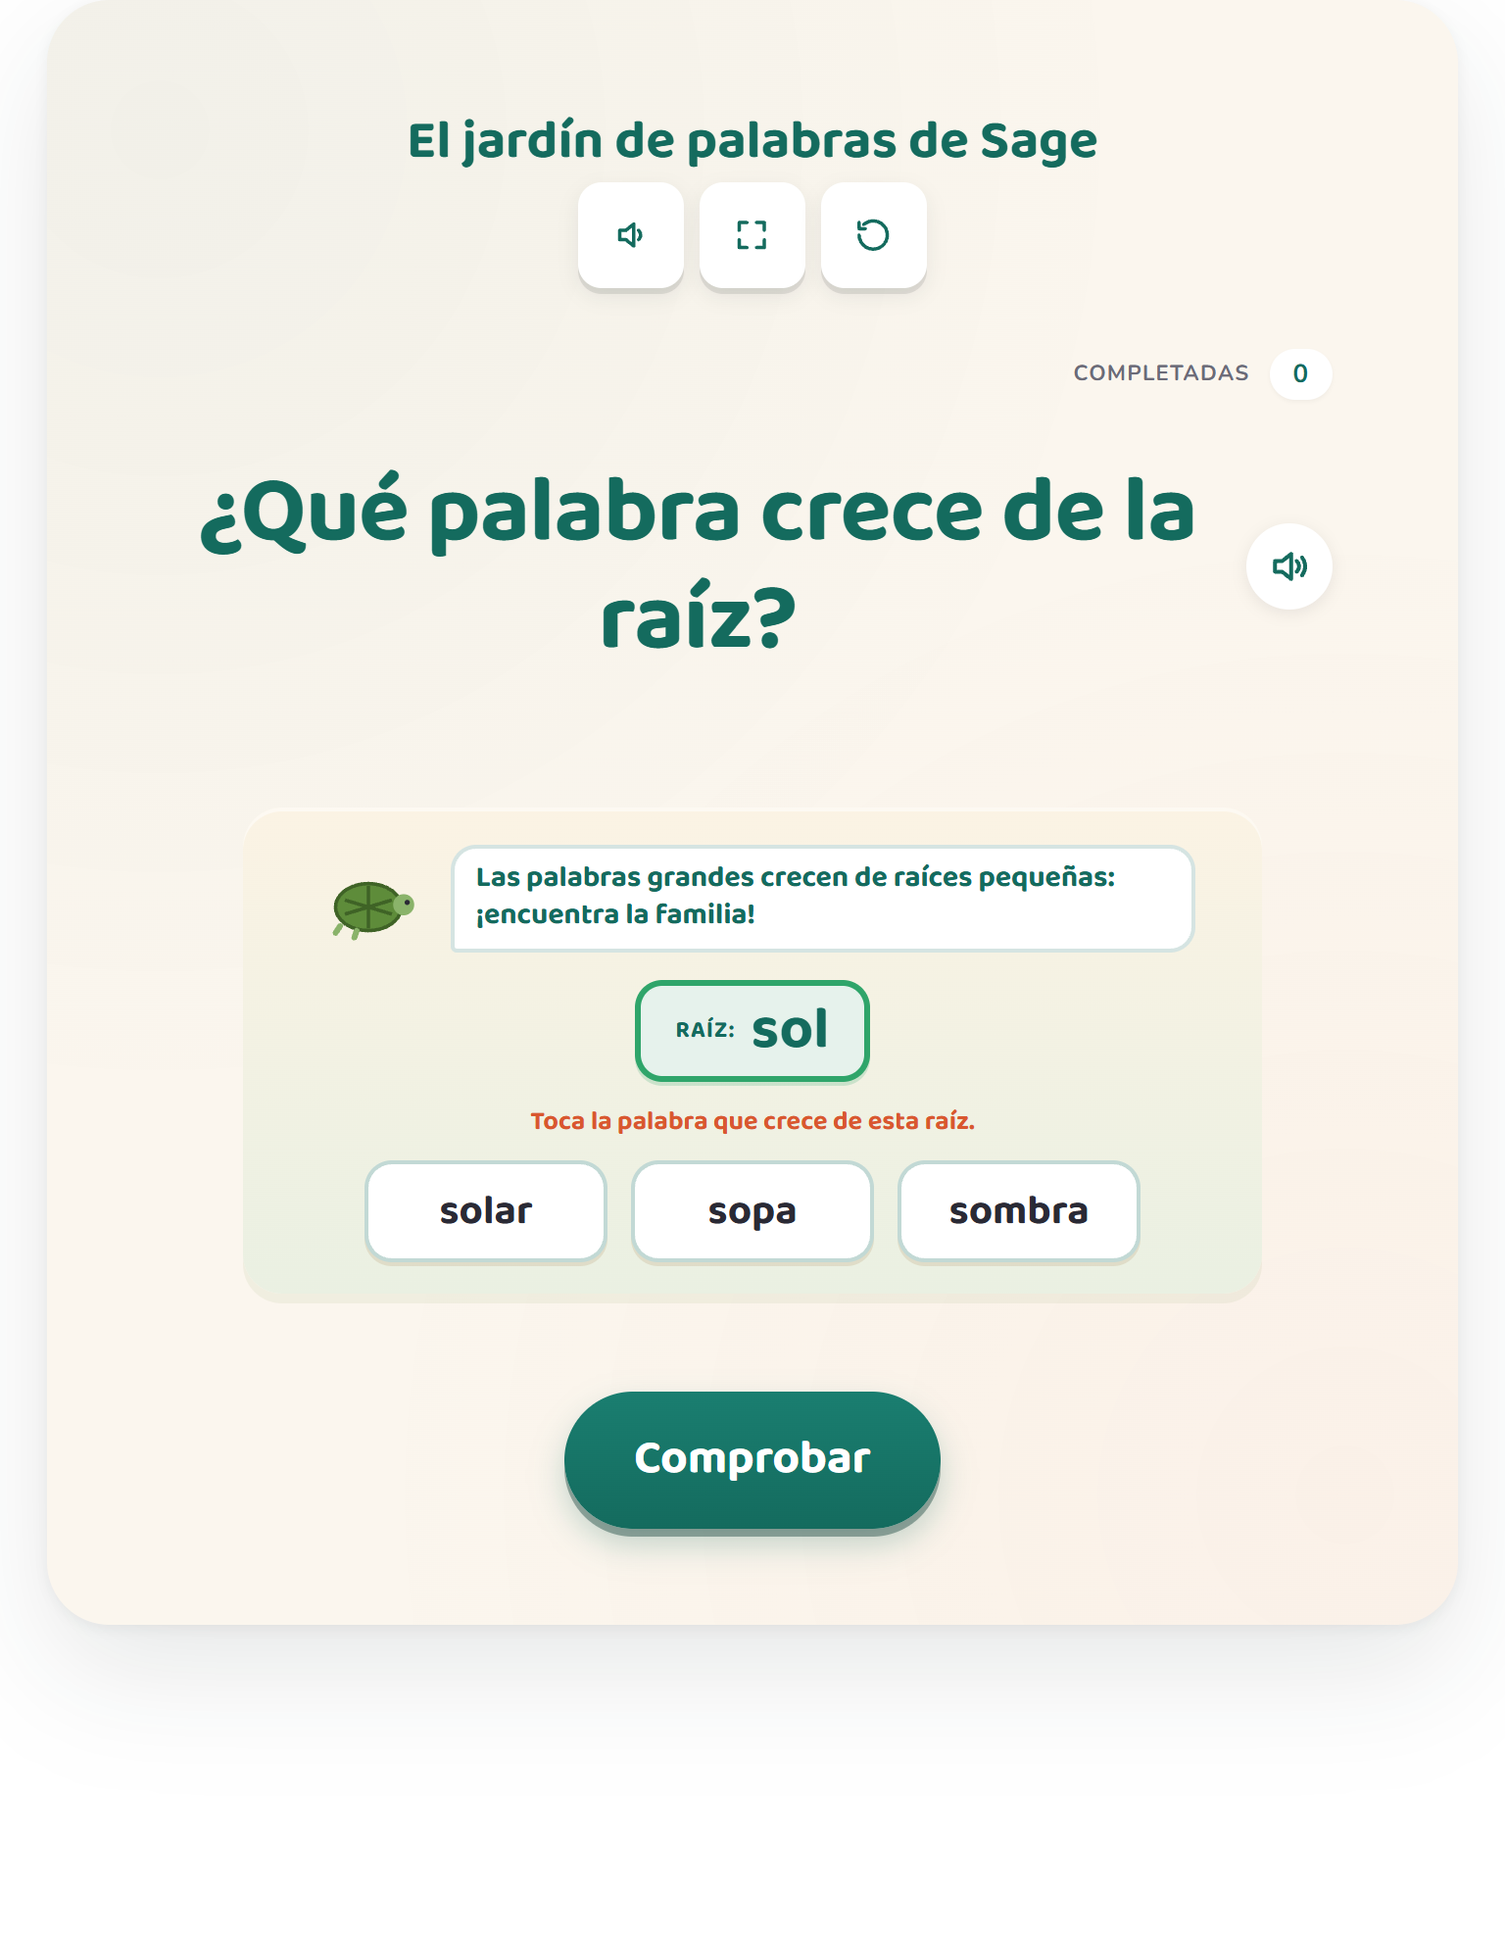
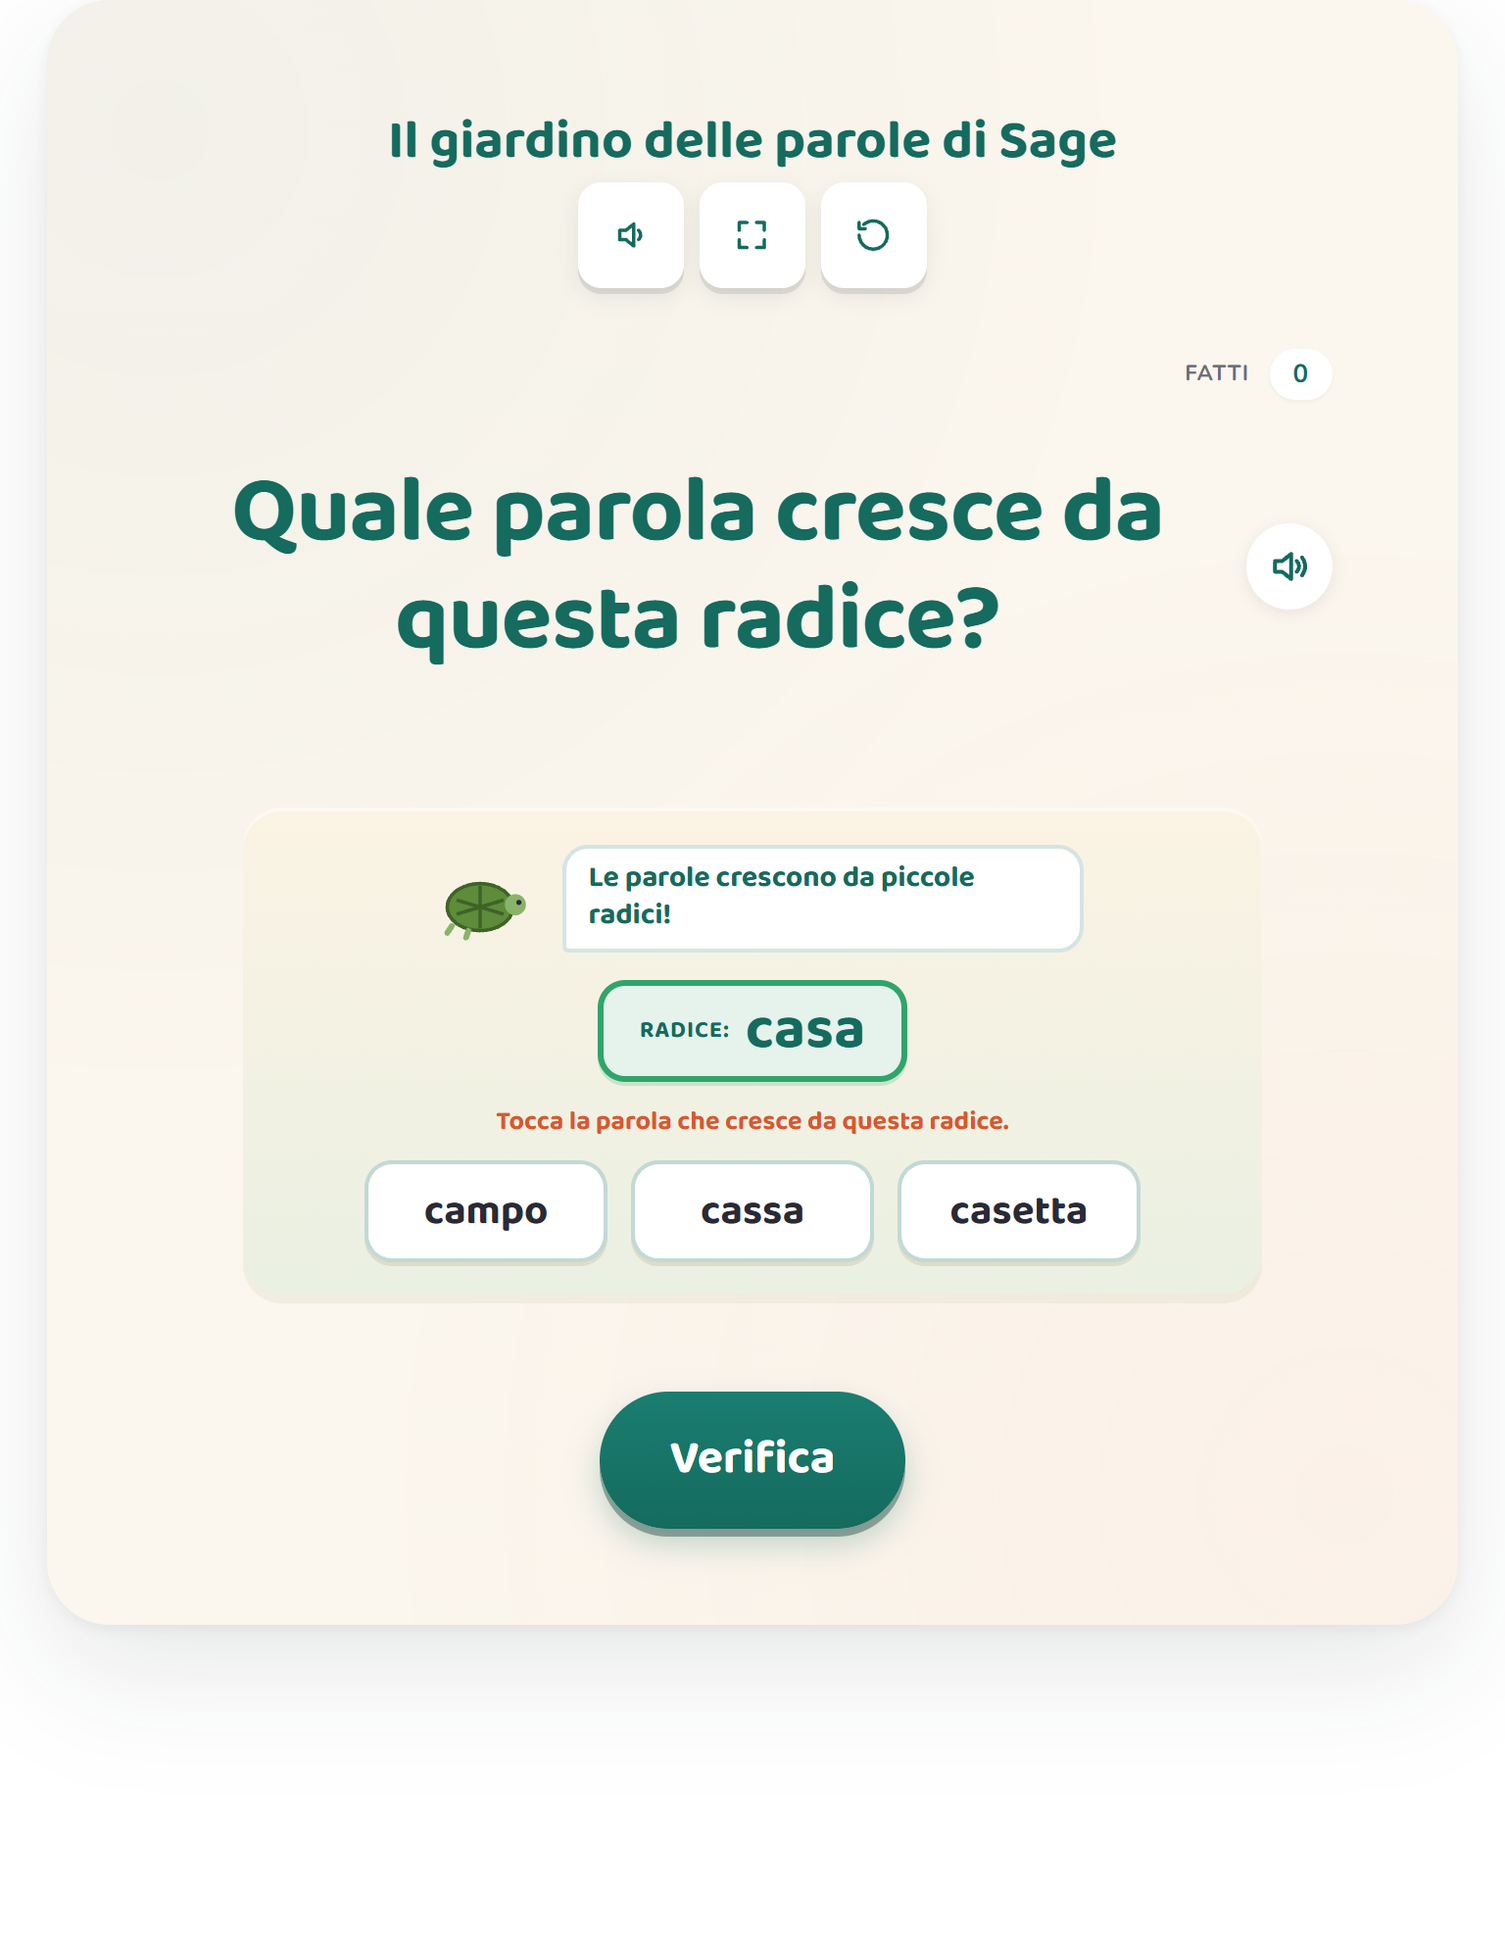
[FEATURE][I18N][IT] sage-root-garden #26 — Il giardino delle parole di Sage + Lessico strand (classe seconda)
Italian (it) second-batch fan-out #26 — sage-root-garden.roots.l-2-4-c, the 6th it
LITERACY activity and the 2nd it VOCABULARY-strand activity (word families/roots =
derivational morphology, same eixo as #22 affix). Pure activity-layer fan-out over
the existing root-word engine (EN + de/es/fr/pt live). Sage the tortoise grows word
families from a root; the child taps the family word that grows from the root among
look-alike foils. Correct = choices[sel].word === correct (runtime).

Rebuilt for the Indicazioni nazionali (lessico, classe seconda). 8 rounds, node-eval
GREEN (each correct family word visibly carries the root stem; 3 distinct choices,
one correct).

⭐ Native it ensemble (K-3 pedagogue + linguist + SEO); the design fork went to the
pedagogue:
- ⭐⭐ ROOT DISPLAY = the FULL BASE NOUN («gatto»/«fiore»/«dente»), NOT the stem
  (pedagogue-decisive over the linguist's stem preference). Scuola primaria teaches
  le famiglie di parole from the parola primitiva — a whole, sayable word; a classe-2
  child recognizes the family, doesn't segment morphemes (that's classe 3-5); a bare
  stem isn't a word and TTS (which speaks round.root) can't read it. Matches the pt
  precedent (dente→dentista) and is technically safe (facts.correctFromRoot is
  EN-gate-only; runtime just checks word === correct).
- FOILS = genuine false friends (linguist-verified etymologically unrelated): the
  gold foils cassa/panno/dentro/sala start with the exact root letters but are a
[…]

diff --git a/mini tools/sage-root-garden-activity.js b/mini tools/sage-root-garden-activity.js
@@ -16,8 +16,8 @@
   var C = { T: '#146B5E', CREAM: '#FBF3E4', CORAL: '#F2784B', CORAL2: '#D9572F', INK: '#2A2A35', GOLD: '#E8A53A', GREEN: '#2FA56A' };
 
   function speak(text) {
-    try { if (global.LCSAudio && global.LCSAudio.speak) { global.LCSAudio.speak({ type: 'word', text: text, lang: (LANG === 'es' ? 'es-MX' : LANG === 'pt' ? 'pt-BR' : LANG), rate: 0.95 }); return; }
-      if (global.speechSynthesis && global.SpeechSynthesisUtterance) { var u = new global.SpeechSynthesisUtterance(text); u.lang = LANG === 'de' ? 'de-DE' : LANG === 'fr' ? 'fr-FR' : LANG === 'es' ? 'es-MX' : LANG === 'pt' ? 'pt-BR' : 'en-US'; u.rate = 0.95; global.speechSynthesis.cancel(); global.speechSynthesis.speak(u); } } catch (e) {}
+    try { if (global.LCSAudio && global.LCSAudio.speak) { global.LCSAudio.speak({ type: 'word', text: text, lang: (LANG === 'es' ? 'es-MX' : LANG === 'pt' ? 'pt-BR' : LANG === 'it' ? 'it-IT' : LANG), rate: 0.95 }); return; }
+      if (global.speechSynthesis && global.SpeechSynthesisUtterance) { var u = new global.SpeechSynthesisUtterance(text); u.lang = LANG === 'de' ? 'de-DE' : LANG === 'fr' ? 'fr-FR' : LANG === 'es' ? 'es-MX' : LANG === 'pt' ? 'pt-BR' : LANG === 'it' ? 'it-IT' : 'en-US'; u.rate = 0.95; global.speechSynthesis.cancel(); global.speechSynthesis.speak(u); } } catch (e) {}
   }
   function shuffle(arr) { var a = arr.slice(), i, j, t; for (i = a.length - 1; i > 0; i--) { j = Math.floor(Math.random() * (i + 1)); t = a[i]; a[i] = a[j]; a[j] = t; } return a; }
 
@@ -35,15 +35,19 @@
   global.SageRootGardenActivity = {
     id: 'sage-root-garden-activity',
 
+    /* it (#26 fan-out — 2nd it VOCABULARY strand «Lessico»; word families/root, classe seconda): ⭐ show the FULL
+       base noun as the «Radice» (gatto/fiore/dente — pedagogue-decisive over the stem; scuola primaria teaches
+       famiglie di parole from the parola primitiva, a real sayable word; matches the pt precedent). Sage = FEMININE
+       (la tartaruga). sageIntro SHORT (2-line bubble clips at 360px). «radice» not «radicale». «...» caporali. */
     strings: {
-      title: { en: "Sage's Root Garden", de: 'Sages Wortgarten', fr: 'Le jardin des mots de Sage', es: 'El jardín de palabras de Sage', pt: 'O Jardim de Palavras da Sage' },
-      prompt: { en: 'Which word grows from the root?', de: 'Welches Wort wächst aus dem Wortstamm?', fr: 'Quel mot pousse à partir du radical ?', es: '¿Qué palabra crece de la raíz?', pt: 'Qual palavra cresce desta raiz?' },
-      sageIntro: { en: 'Big words grow from little root words — find the family!', de: 'Aus kleinen Wortstämmen wachsen große Wörter – finde die Wortfamilie!', fr: 'De petits radicaux poussent de grands mots !', es: 'Las palabras grandes crecen de raíces pequeñas: ¡encuentra la familia!', pt: 'Grandes palavras crescem de raízes pequenas!' },
-      rootLab: { en: 'Root word:', de: 'Wortstamm:', fr: 'Radical :', es: 'Raíz:', pt: 'Raiz:' },
-      theAsk: { en: 'Tap the word that grows from this root.', de: 'Tippe das Wort an, das aus diesem Wortstamm wächst.', fr: 'Touche le mot qui pousse à partir de ce radical.', es: 'Toca la palabra que crece de esta raíz.', pt: 'Toque na palavra que cresce desta raiz.' },
-      hintPick: { en: 'Find the root hiding inside one of the words!', de: 'Finde den Wortstamm, der sich in einem der Wörter versteckt!', fr: 'Cherche le radical caché au début d’un des mots !', es: '¡Busca la raíz escondida dentro de una de las palabras!', pt: 'Ache a raiz escondida dentro de uma das palavras!' },
-      hintWrong: { en: "That one just looks alike — look for the root inside.", de: 'Das sieht nur ähnlich aus – suche den Wortstamm darin.', fr: 'Il se ressemble seulement — cherche bien le radical à l’intérieur.', es: 'Esa solo se parece; busca la raíz adentro.', pt: 'Essa é só parecida — procure a raiz de verdade dentro dela.' },
-      win: { en: 'Yes! That word grew from the root. 🌱', de: 'Ja! Dieses Wort ist aus dem Wortstamm gewachsen. 🌱', fr: 'Bravo ! Ce mot a poussé à partir du radical. 🌱', es: '¡Sí! Esa palabra creció de la raíz. 🌱', pt: 'Isso! Essa palavra cresceu da raiz. 🌱' }
+      title: { en: "Sage's Root Garden", de: 'Sages Wortgarten', fr: 'Le jardin des mots de Sage', es: 'El jardín de palabras de Sage', pt: 'O Jardim de Palavras da Sage', it: 'Il giardino delle parole di Sage' },
+      prompt: { en: 'Which word grows from the root?', de: 'Welches Wort wächst aus dem Wortstamm?', fr: 'Quel mot pousse à partir du radical ?', es: '¿Qué palabra crece de la raíz?', pt: 'Qual palavra cresce desta raiz?', it: 'Quale parola cresce da questa radice?' },
+      sageIntro: { en: 'Big words grow from little root words — find the family!', de: 'Aus kleinen Wortstämmen wachsen große Wörter – finde die Wortfamilie!', fr: 'De petits radicaux poussent de grands mots !', es: 'Las palabras grandes crecen de raíces pequeñas: ¡encuentra la familia!', pt: 'Grandes palavras crescem de raízes pequenas!', it: 'Le parole crescono da piccole radici!' },
+      rootLab: { en: 'Root word:', de: 'Wortstamm:', fr: 'Radical :', es: 'Raíz:', pt: 'Raiz:', it: 'Radice:' },
+      theAsk: { en: 'Tap the word that grows from this root.', de: 'Tippe das Wort an, das aus diesem Wortstamm wächst.', fr: 'Touche le mot qui pousse à partir de ce radical.', es: 'Toca la palabra que crece de esta raíz.', pt: 'Toque na palavra que cresce desta raiz.', it: 'Tocca la parola che cresce da questa radice.' },
+      hintPick: { en: 'Find the root hiding inside one of the words!', de: 'Finde den Wortstamm, der sich in einem der Wörter versteckt!', fr: 'Cherche le radical caché au début d’un des mots !', es: '¡Busca la raíz escondida dentro de una de las palabras!', pt: 'Ache a raiz escondida dentro de uma das palavras!', it: 'Cerca la radice nascosta dentro una delle parole!' },
+      hintWrong: { en: "That one just looks alike — look for the root inside.", de: 'Das sieht nur ähnlich aus – suche den Wortstamm darin.', fr: 'Il se ressemble seulement — cherche bien le radical à l’intérieur.', es: 'Esa solo se parece; busca la raíz adentro.', pt: 'Essa é só parecida — procure a raiz de verdade dentro dela.', it: 'Quella somiglia soltanto — cerca dentro la radice vera!' },
+      win: { en: 'Yes! That word grew from the root. 🌱', de: 'Ja! Dieses Wort ist aus dem Wortstamm gewachsen. 🌱', fr: 'Bravo ! Ce mot a poussé à partir du radical. 🌱', es: '¡Sí! Esa palabra creció de la raíz. 🌱', pt: 'Isso! Essa palavra cresceu da raiz. 🌱', it: 'Sì! Questa parola è cresciuta dalla radice. 🌱' }
     },
     defaults: {},
 
@@ -73,7 +77,7 @@
       var say = api.el('div', 'srg-say'); say.textContent = api.t('sageIntro'); row.appendChild(say);
       root.appendChild(row);
 
-      var rootBox = api.el('button', 'srg-rootbox'); rootBox.type = 'button'; rootBox.setAttribute('aria-label', LANG === 'de' ? ('Wortstamm ' + v.root + ' anhören') : LANG === 'fr' ? ('écouter le radical ' + v.root) : LANG === 'es' ? ('escuchar la raíz ' + v.root) : LANG === 'pt' ? ('ouvir a raiz ' + v.root) : ('hear the root ' + v.root));
+      var rootBox = api.el('button', 'srg-rootbox'); rootBox.type = 'button'; rootBox.setAttribute('aria-label', LANG === 'de' ? ('Wortstamm ' + v.root + ' anhören') : LANG === 'fr' ? ('écouter le radical ' + v.root) : LANG === 'es' ? ('escuchar la raíz ' + v.root) : LANG === 'pt' ? ('ouvir a raiz ' + v.root) : LANG === 'it' ? ('ascolta la radice ' + v.root) : ('hear the root ' + v.root));
       var rl = api.el('span', 'srg-rootlab'); rl.textContent = api.t('rootLab'); rootBox.appendChild(rl);
       var rw = api.el('span', 'srg-rootword'); rw.textContent = v.root; rootBox.appendChild(rw);
       rootBox.addEventListener('click', function () { speak(v.root); });

diff --git a/frontend/app/[locale]/activities/[slug]/page.tsx b/frontend/app/[locale]/activities/[slug]/page.tsx
@@ -170,7 +170,7 @@ const STRAND_OVERRIDE: Record<string, Record<string, string>> = {
   'star-stitcher.connect-sequence.k-cc-a-2': { fr: 'Découvrir les nombres et leurs utilisations' }, // GS-anchored (comparison-creek/necklace precedent): compter à partir d'un nombre donné (surcomptage) — dire la suite orale à partir de n'importe quel nombre, à ≤18 = attendu de GS (maternelle) → native 'K' auto-maps to GS (NO fr grade override; ⚠ diverges from the de Klasse-1 fan); the maternelle number domain, NOT the cycle-2 « Nombres et calcul » auto-map; NO two-digit/tens content so it does NOT escalate to CP (contrast posy/nesting-pots); en/de fall through
   'parking-tower.place-by-relation.k-g-a-1': { fr: 'Se repérer dans l’espace' }, // GS-anchored: les mots de position (au-dessus/en dessous/à côté/entre) = vocabulaire spatial = « se repérer dans l'espace » = attendu de la maternelle (GS) → native 'K' auto-maps to GS (NO fr grade override; ⚠ diverges from the de Klasse-1 fan); the maternelle spatial-orientation domain, NOT the cycle-2 « Espace et géométrie » auto-map (a year off beside the GS chip); the Geometry-strand analog of the counting siblings' number-domain override; en/de fall through
   'bramble.holds-more.k-md-a-2': { fr: 'Explorer des formes, des grandeurs, des suites organisées' }, // GS-anchored: comparer des contenances qualitativement (lequel contient le plus/le moins/autant) = comparer des grandeurs = attendu de la maternelle → native 'K' auto-maps to GS (NO fr grade override; ⚠ diverges from the de Klasse-1 fan); the maternelle grandeurs domain, NOT the cycle-2 « Grandeurs et mesures » auto-map (a year off beside the GS chip); the Measurement-strand analog of the counting/spatial GS overrides; en/de fall through
-  'sage-root-garden.roots.l-2-4-c': { fr: 'Le lexique', es: 'Ampliación del vocabulario', pt: 'Ampliação do vocabulário' }, // familles de mots / radical = morphologie dérivationnelle → LE LEXIQUE (programmes cycle 2), beside the affix activity; the German sibling files word-families under grammar („Sprache untersuchen") but that placement is DE-specific — en/de fall through to Language / Sprache untersuchen unchanged. MX: familias de palabras = estrategia de vocabulario (L.2.4.c en el cluster Vocabulary de CCSS; SEP la enseña como inferencia de significado) → "Ampliación del vocabulario", MISMO eje que #22 afijos (morfología derivativa); espeja el fr, NO el de. PT: família de palavras = estratégia de ampliação do vocabulário (mesmo eixo que #22 afixos, L.2.4 word-formation=vocab); espelha es/fr, NÃO o de (que a coloca em gramática)
+  'sage-root-garden.roots.l-2-4-c': { fr: 'Le lexique', es: 'Ampliación del vocabulario', pt: 'Ampliação do vocabulário', it: 'Lessico' }, // IT: famiglie di parole = morfologia derivativa = LESSICO (stesso eixo di #22 affix; le Indicazioni nazionali lo trattano come arricchimento lessicale, NON grammatica) → «Lessico» (it VOCAB strand, registrato #22); mirrors es/fr/pt, NOT de. // familles de mots / radical = morphologie dérivationnelle → LE LEXIQUE (programmes cycle 2), beside the affix activity; the German sibling files word-families under grammar („Sprache untersuchen") but that placement is DE-specific — en/de fall through to Language / Sprache untersuchen unchanged. MX: familias de palabras = estrategia de vocabulario (L.2.4.c en el cluster Vocabulary de CCSS; SEP la enseña como inferencia de significado) → "Ampliación del vocabulario", MISMO eje que #22 afijos (morfología derivativa); espeja el fr, NO el de. PT: família de palavras = estratégia de ampliação do vocabulário (mesmo eixo que #22 afixos, L.2.4 word-formation=vocab); espelha es/fr, NÃO o de (que a coloca em gramática)
   'sound-boxes.phoneme-position.rf-k-2-d': { de: 'Sprache und Sprachgebrauch untersuchen', es: 'Conciencia fonémica', pt: 'Consciência fonêmica' }, // Lautanalyse = metalinguistische Analyse der Lautstruktur (KMK); distinct from #102 Reime „Sprechen und Zuhören" (holistic listening). es: «Conciencia fonémica» (el término del tool-bank es s2; analítica/fonema ⊂ la «Conciencia fonológica» holística de rhyme-shop #102); RF no tiene auto-map es en strand-names.ts → sin override el chip filtra el default falso «Comprensión lectora». pt «Consciência fonêmica» — nível analítico (fonema), DISTINTO de rhyme-shop #102 pt «Consciência fonológica» (holística, rima); BNCC "consciência fonológica E fonêmica"; RF sem auto-map pt em strand-names.ts → override obrigatório senão o chip cai no falso «Compreensão leitora»
   'stretch-giraffe.long-short-vowel.rf-1-2-a': { de: 'Sprache und Sprachgebrauch untersuchen' }, // Vokallaenge = analytische Isolation+Klassifikation des betonten Selbstlauts nach dem Merkmal Quantitaet (metasprachlich, wie #106); NOT #102 „Sprechen und Zuhören"; RF hat keinen de-Eintrag in strand-names.ts -> Override setzt den Chip
   'choice-board.read-cvc-word.rf-k-3': { de: 'Lesen – mit Texten und Medien umgehen', es: 'Lectura', pt: 'Leitura: decodificação' }, // Erstlesen = rezeptiv-lesende Kompetenz (KMK Kompetenzbereich Lesen, „über Lesefaehigkeiten verfuegen"); distinct from #106/#107 „untersuchen"; RF hat keinen de-Eintrag in strand-names.ts -> Override setzt den Chip. es: «Lectura» (leer/decodificar palabras = lectura inicial; el default RF es «Comprensión lectora» sobreestima; distinto de #106 «Conciencia fonémica» + #102 «Conciencia fonológica»). pt «Leitura: decodificação» — objeto BNCC exato (Decodificação/Fluência); o auto-map pt «Leitura/escuta» tem «/escuta» FALSO p/ leitura silenciosa; fica visivelmente do lado da LEITURA, distinto de #106 «Consciência fonêmica» + #102 «Consciência fonológica» (consciência/pré-leitura)
@@ -547,7 +547,7 @@ export default async function ActivityPage({ params }: { params: PageParams }) {
   // applied here to the iframe-loaded wrapper URL (the only un-busted
   // link in the activity-page → mini-tool chain). The wrapper reads
   // only `activity` / `lang` / `embed` params; `v` is harmless to it.
-  const ACTIVITY_WRAPPER_VERSION = '9.478';
+  const ACTIVITY_WRAPPER_VERSION = '9.479';
 
   const iframeSrc =
     `/mini-tools/${row.tool}.html?v=${ACTIVITY_WRAPPER_VERSION}` +

diff --git a/mini tools/sage-root-garden-activity.html b/mini tools/sage-root-garden-activity.html
@@ -17,7 +17,7 @@
        NOTE: bump ?v=N on EVERY change to sage-root-garden-activity.js / root-word-core.js (§A.13.42). -->
   <script src="/mini-tools/lcs-shell.js?v=5"></script>
   <script src="/mini-tools/root-word-core.js?v=1"></script>
-  <script src="/mini-tools/sage-root-garden-activity.js?v=5"></script>
+  <script src="/mini-tools/sage-root-garden-activity.js?v=6"></script>
   <script>
     LCS.mount(SageRootGardenActivity, { mount: '#lcs-root' });
   </script>
